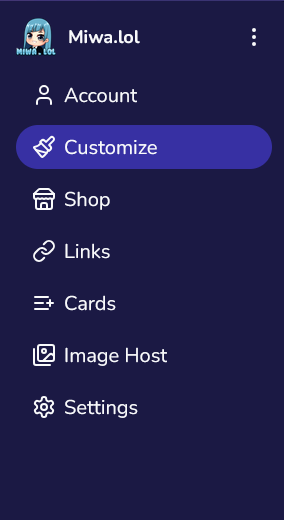
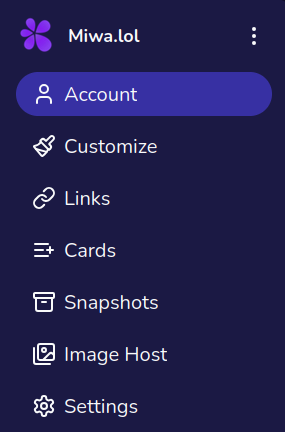
docs: refine account creation and profile setup documentation

diff --git a/docs/getting-started/setting-up/index.md b/docs/getting-started/setting-up/index.md
@@ -1,24 +1,23 @@
 ---
+title: Setting up your Profile
 sidebar_position: 2
-title: Setting Up Your Profile
 ---
 
-Once your account is created and you've completed the onboarding process, you can set up your profile by visiting your [dashboard](https://miwa.lol/dashboard)!
+Once your account is created, and you've completed the onboarding process, you can set up your profile by visiting your [dashboard](https://miwa.lol/dashboard)!
 
-## Navigating the Dashboard
+## Navigating the dashboard
 
 The sidebar in the dashboard allows you to easily navigate through different sections to manage your profile and settings.
 
 <div style={{ float: 'left', marginRight: '2rem' }}>
-  ![The Dashboard sidebar](./sidebar.png)
+  ![The dashboard sidebar](./sidebar.png)
 </div>
 
 Here’s an overview of the sections available in the dashboard:
 
-* **Account**: View an overview of your account.
+* **Account**: View an overview and stats of your account.
 * **Customize**: Personalize your profile. We explain every option in the [Customization](/category/customization) section.
-* **Shop**: Purchase avatar decorations and other items.
-* **Links**: Manage the links to your social media profiles and other websites. [Learn more about links...](/links/)
-* **Cards**: Manage the cards displayed on your profile. It's a great way to showcase content, such as a Discord server, your Discord presence, or other external content. [Learn more about cards...](/cards/)
+* **Links**: Manage the links to your social media profiles and other websites. [Learn more...](/links/)
+* **Cards**: Manage the cards displayed on your profile. It's a great way to showcase content, such as a Discord server, your Discord presence, or other external content. [Learn more...](/cards/)
 * **Image Host**: Upload images to our image host and share them via a link.
 * **Settings**: Update your account settings, such as your username, password, and two-factor authentication.

diff --git a/docs/getting-started/creating-an-account.md b/docs/getting-started/creating-an-account.md
@@ -1,6 +1,6 @@
 ---
-sidebar_position: 1
 title: Creating an Account
+sidebar_position: 1
 ---
 
 To create an account, visit the [Miwa.lol website](https://miwa.lol) and click the "**Register for free**" button in the top right corner.
